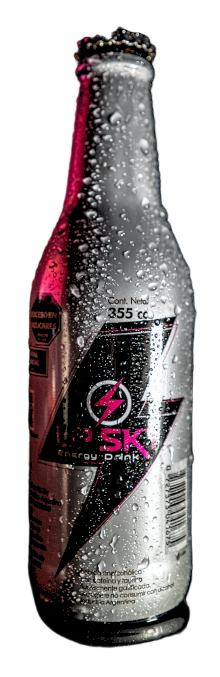
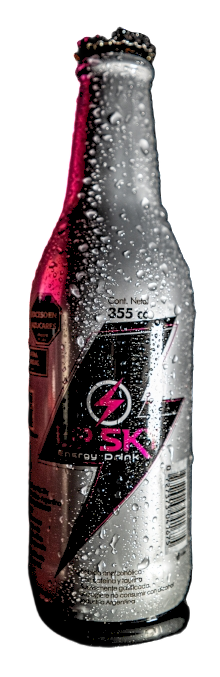
Sacar las líneas diagonales de Producto y limpiar el reborde negro
Quita el div/CSS de .qs-lines en la sección Producto. Además,
reprocesa la imagen de la botella para eliminar el matte oscuro que
quedaba en el borde del recorte (los píxeles semitransparentes
conservaban tinte negro del fondo original); se corrige
"des-premultiplicando" el color contra negro, dejando un borde
limpio contra el fondo oscuro del sitio.

Claude-Session: https://claude.ai/code/session_01J8mX8tRpQYXPVVrhFUHahK

diff --git a/prototype/style.css b/prototype/style.css
@@ -375,14 +375,6 @@ a { color: inherit; text-decoration: none; }
   filter: blur(55px);
   pointer-events: none;
 }
-.qs-lines {
-  position: absolute;
-  inset: -10%;
-  pointer-events: none;
-  background:
-    linear-gradient(115deg, transparent 46%, rgba(236, 31, 122, 0.3) 47.4%, transparent 48.8%),
-    linear-gradient(115deg, transparent 58%, rgba(255, 122, 48, 0.22) 59.2%, transparent 60.4%);
-}
 .qs-bottle {
   position: relative;
   z-index: 1;

diff --git a/prototype/index.html b/prototype/index.html
@@ -123,7 +123,6 @@
   <div class="container qs-grid">
     <div class="qs-media qs-reveal">
       <div class="qs-glow"></div>
-      <div class="qs-lines" aria-hidden="true"></div>
       <img src="assets/qs-bottle-cutout-v2.png" alt="Botella de UP SKY Energy Drink, 355cc" class="qs-bottle">
       <p class="qs-caption">UP SKY <span>/</span> ENERGY DRINK</p>
     </div>
